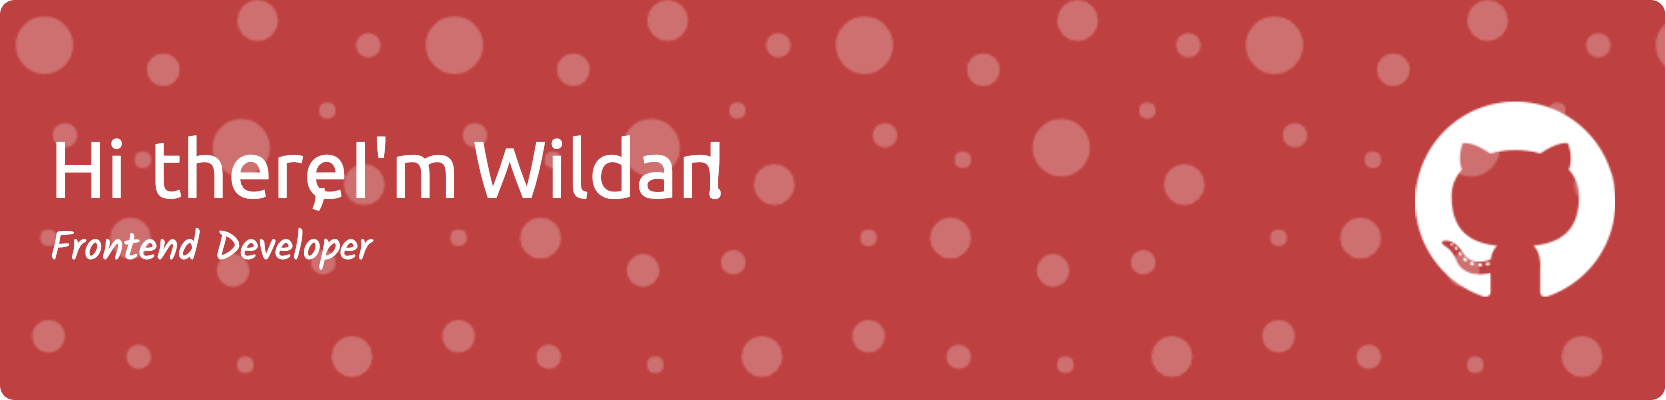
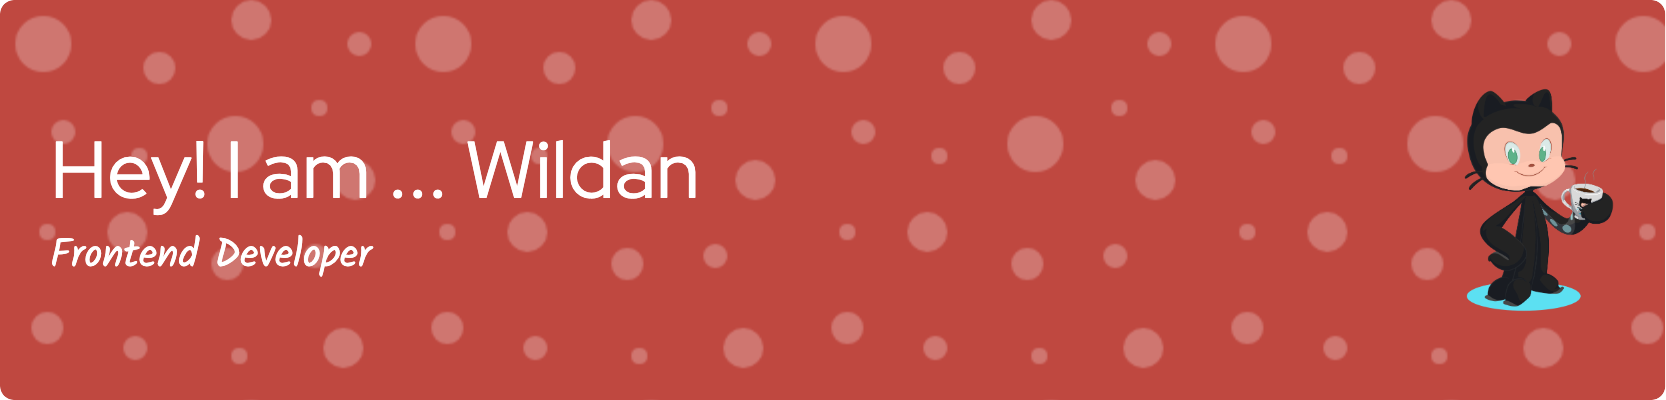
my profile github

diff --git a/README.md b/README.md
@@ -1,15 +1,15 @@
-# Hi there, I'm Wildan! 👋
+![banner](banner.png)
 
-I'm a **Frontend Developer** from Bandung, West Java - Indonesia.  
+> I'm a **Frontend Developer** from Bandung, West Java - Indonesia.
 Born in 1994, I have a deep passion for programming and love building web applications.
 
-### Tech Stack
-- **Frontend**: TypeScript, Next.js, TailwindCSS
-- **Runtime**: NodeJS and Bun   
-- **Open Source**: Author of [DocuBook](https://gitlab.com/mywildancloud/docubook), a documentation web framework build with React
+> Author of [DocuBook](https://gitlab.com/mywildancloud/docubook), a documentation web framework build with React
 
-### 📬 Let's Connect!
-- 💬 Active on Telegram: [@wildannrs](https://t.me/wildannrs)  
-- 🏗 Open for discussions about projects and collaborations  
+#### Skills
+[![My Skills](https://skillicons.dev/icons?i=tailwindcss,react,js,ts,nodejs,bun,git)](https://skillicons.dev)
 
-Feel free to check out my repositories and contributions! 🚀
+#### Connect with Me
+![https://www.facebook.com/wildan.nrsh](https://img.shields.io/badge/Facebook-1877F2?style=for-the-badge&logo=facebook&logoColor=white) ![https://t.me/wildannrs](    https://img.shields.io/badge/Telegram-2CA5E0?style=for-the-badge&logo=telegram&logoColor=white) ![https://www.instagram.com/wildan.nrs/](https://img.shields.io/badge/Instagram-E4405F?style=for-the-badge&logo=instagram&logoColor=white) ![https://www.threads.com/@wildan.nrs](https://img.shields.io/badge/Threads-000000?style=for-the-badge&logo=Threads&logoColor=white) ![https://x.com/wildan_nrss](https://img.shields.io/badge/X-000000?style=for-the-badge&logo=x&logoColor=white)
+
+#### Github Stats
+![Wildan's GitHub stats](https://github-readme-stats.vercel.app/api?username=gitfromwildan&show_icons=true&theme=merko)
